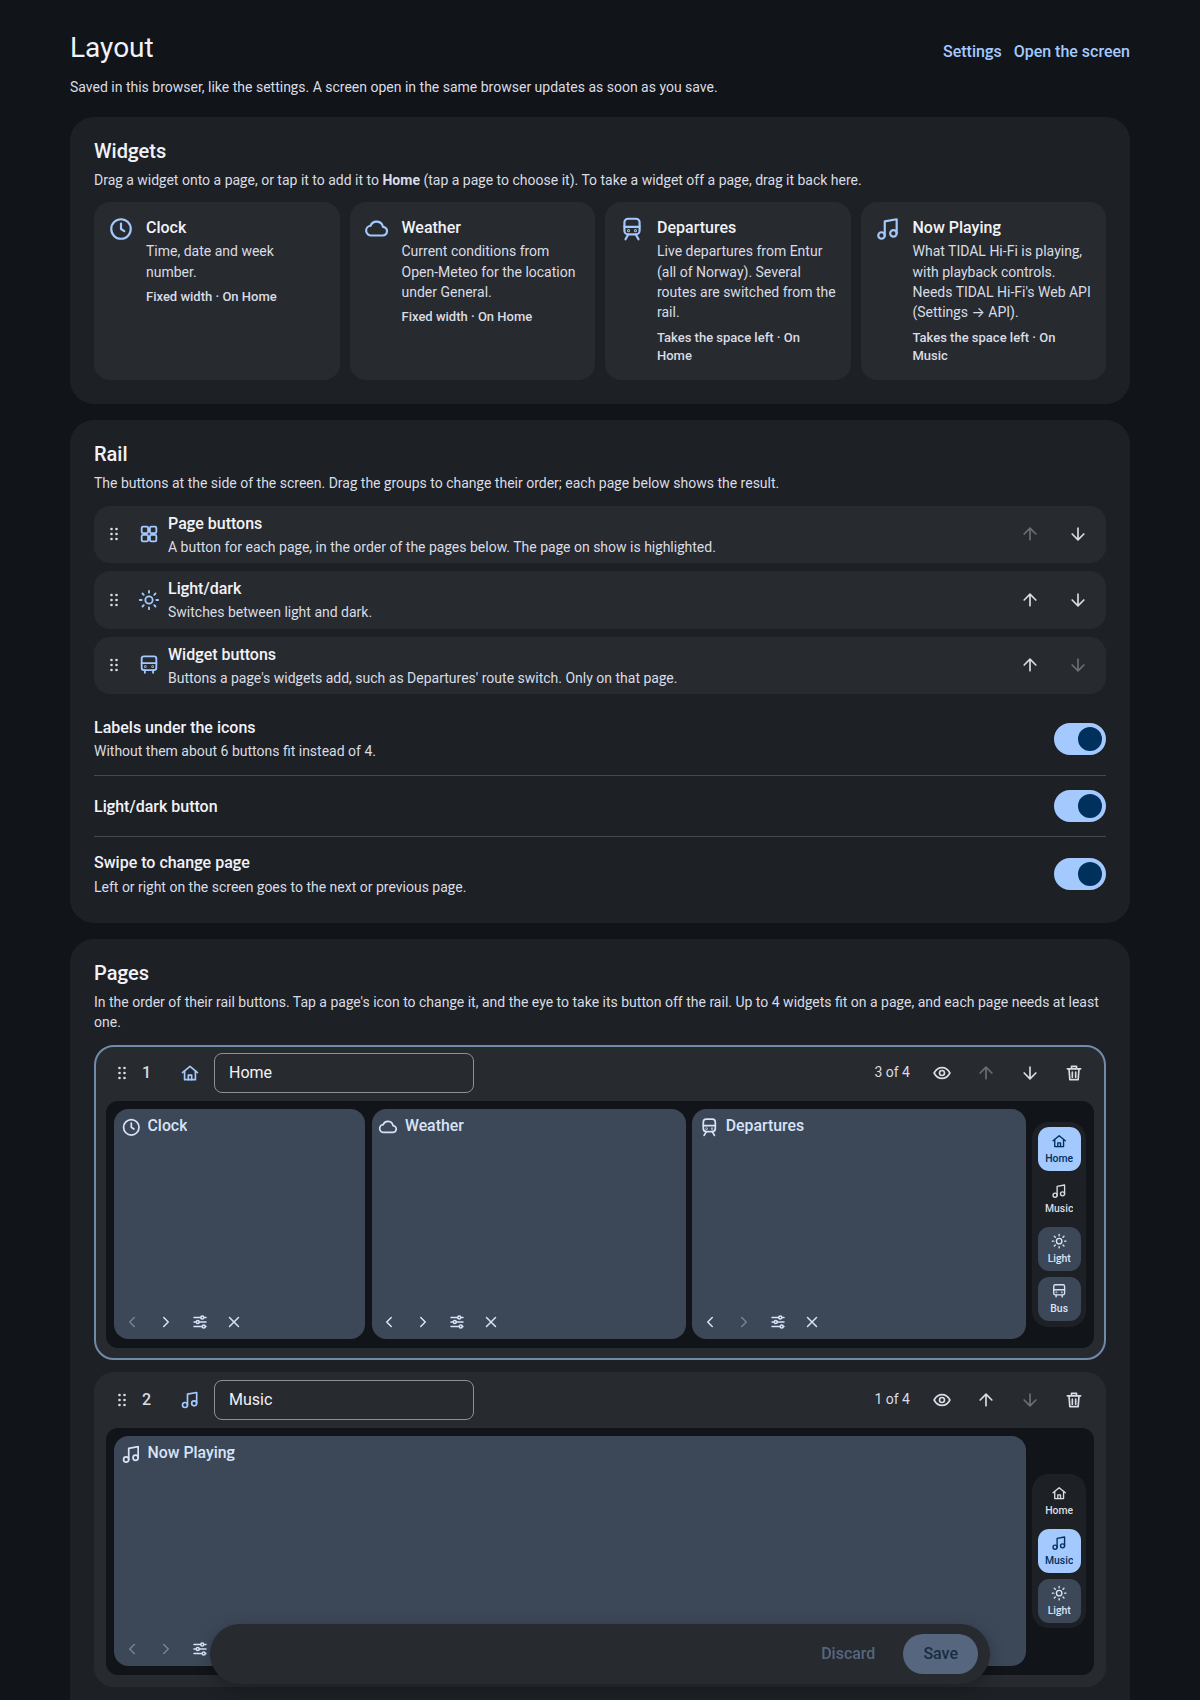
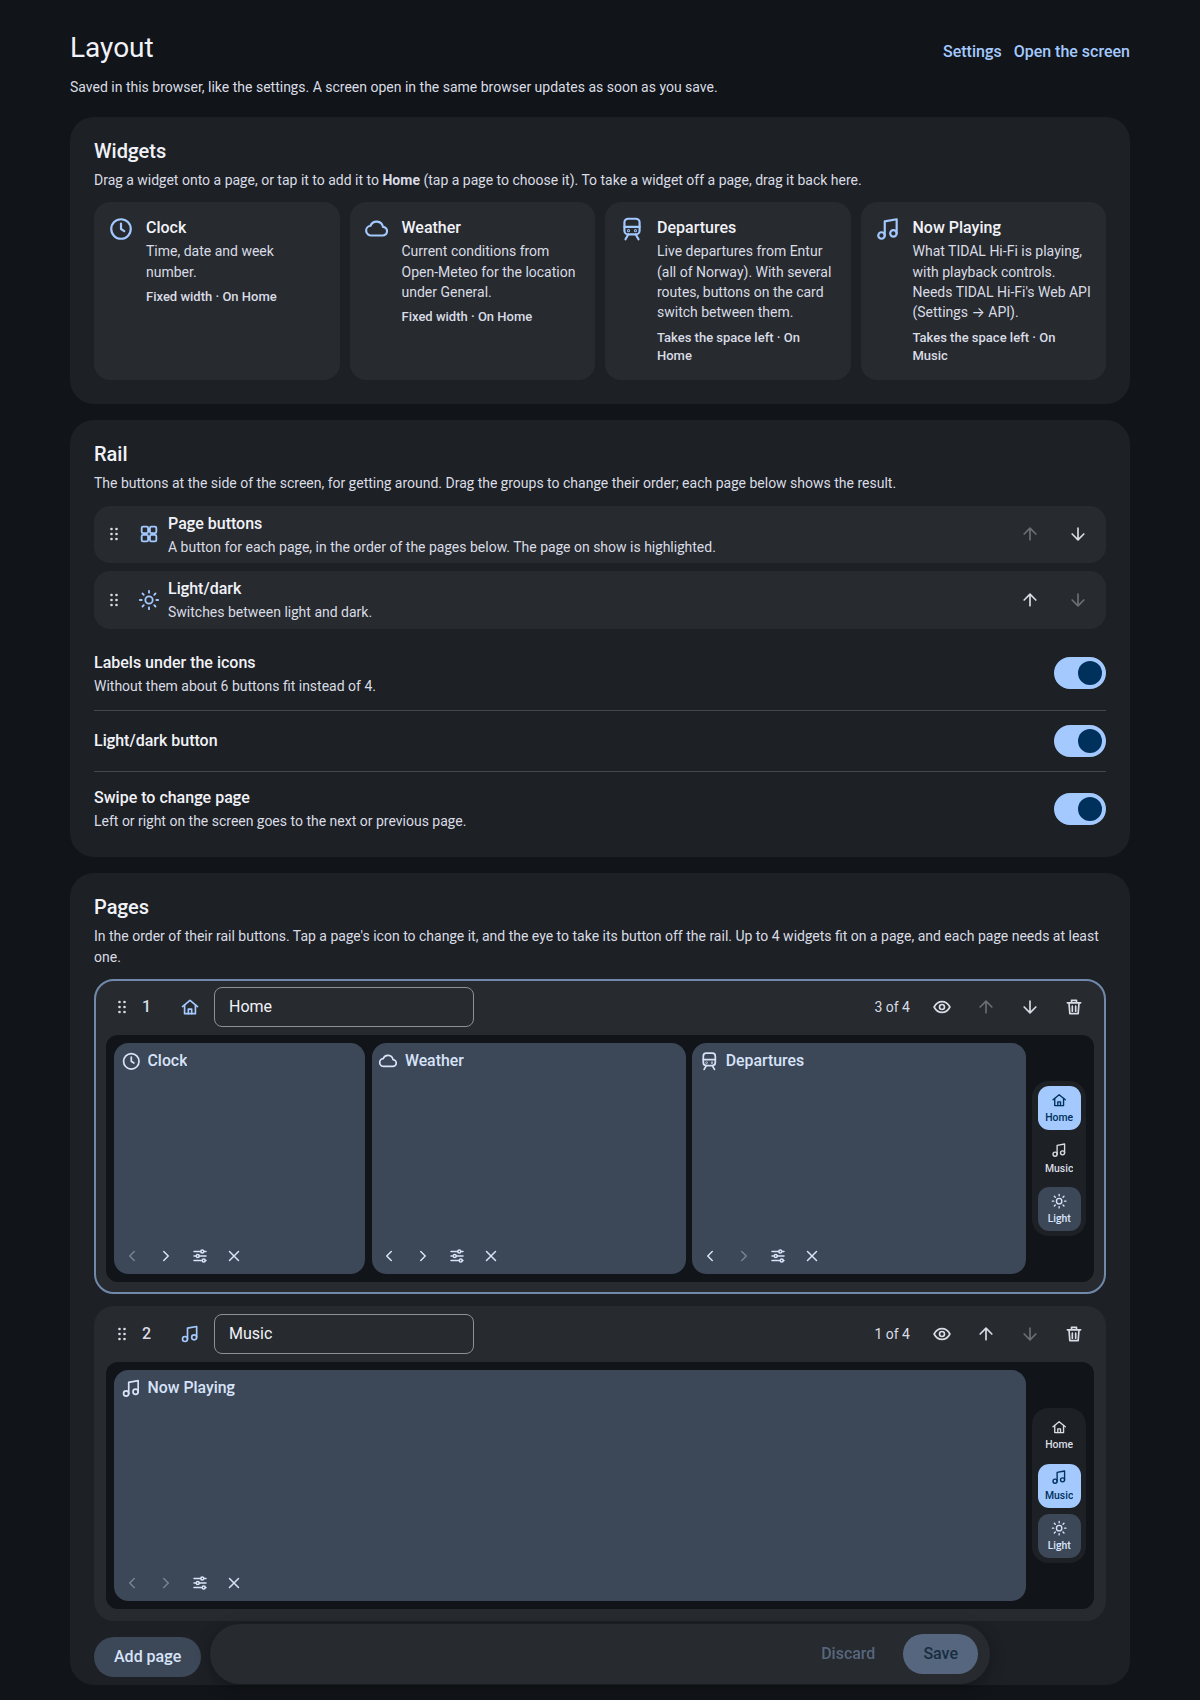
Put the route buttons on the Departures card, keep the rail for navigation
Departures' route switch was a button on the rail, next to the page
buttons, which mixed a widget's control into navigation. With several
routes the card now has a button for each at the top right, the one on
show filled; a tap switches to it and it's remembered as before.

The rail no longer takes buttons from widgets: the "widget buttons"
group, railActions() and refreshRail() are gone, and settings saved with
that group in the rail's order are upgraded on load. The README says a
widget's controls belong on its card.

diff --git a/web/widgets/transit/transit.js b/web/widgets/transit/transit.js
@@ -1,7 +1,7 @@
 // Live departures from Entur's journey planner (Ruter and the rest of Norway).
 // A route's `fromId` is a whole stop place or one platform (quay); departures
 // are kept only if the vehicle calls at `dest` after leaving.
-import { defineSymbols, make, refs } from "../../core/dom.js";
+import { lineIcon, make, onTap, refs } from "../../core/dom.js";
 import { ICONS } from "../../core/icons.js";
 import { fetchJSON } from "../../core/net.js";
 import { store } from "../../core/store.js";
@@ -22,11 +22,6 @@ const CALLS = `estimatedCalls(numberOfDepartures: 20, timeRange: 21600, whiteLis
     }
   }`;
 const queryFor = (kind) => `query ($id: String!, $modes: [TransportMode]) { place: ${kind}(id: $id) { ${CALLS} } }`;
-
-const SYMBOLS = ["train", "bus"].map((name) => `
-  <symbol id="i-${name}" viewBox="0 0 24 24">
-    <g fill="none" stroke="currentColor" stroke-width="2" stroke-linecap="round" stroke-linejoin="round">${ICONS[name]}</g>
-  </symbol>`).join("");
 
 function parseDepartures(calls, route) {
   return calls.flatMap((c) => {
@@ -55,8 +50,7 @@ function parseDepartures(calls, route) {
 
 const minutesUntil = (t) => Math.floor((t - Date.now()) / 60000);
 
-export function mount(card, { settings, fmt, refreshRail }) {
-  defineSymbols("transit", SYMBOLS);
+export function mount(card, { settings, fmt }) {
   card.classList.add("transit");
   card.setAttribute("aria-label", "Next departures");
   card.innerHTML = `
@@ -175,31 +169,37 @@ export function mount(card, { settings, fmt, refreshRail }) {
     refresh();
   }
 
+  // Several routes: a button for each at the top of the card, the one on show filled
+  if (routes.length > 1) {
+    const group = make("div", { className: "routes", role: "group" });
+    group.setAttribute("aria-label", "Routes");
+    const buttons = routes.map((route, i) => {
+      const button = make("button", { type: "button", className: "route-btn" });
+      button.setAttribute("aria-label", `${route.label || route.name}: ${route.name}`);
+      button.append(lineIcon(ICONS[route.icon]), make("span", { textContent: route.label || route.name }));
+      onTap(button, () => {
+        if (i === routeIndex) return;
+        routeIndex = i;
+        store.set("transit-route", String(routeIndex));
+        showChosen();
+        loadRoute();
+      });
+      return button;
+    });
+    const showChosen = () => buttons.forEach((b, i) => {
+      b.classList.toggle("on", i === routeIndex);
+      b.setAttribute("aria-pressed", String(i === routeIndex));
+    });
+    showChosen();
+    group.append(...buttons);
+    card.append(group);
+  }
+
   loadRoute();
   // Countdowns tick between fetches
   const ticker = setInterval(render, 5 * 1000);
 
   return {
-    // One rail button that steps to the next route, when there's more than one
-    railActions() {
-      if (routes.length < 2) return [];
-      const next = routes[(routeIndex + 1) % routes.length];
-      const icon = document.createElementNS("http://www.w3.org/2000/svg", "svg");
-      icon.setAttribute("class", "rail-icon");
-      icon.setAttribute("aria-hidden", "true");
-      icon.innerHTML = `<use href="#i-${next.icon}"/>`;
-      return [{
-        icon,
-        label: next.label,
-        ariaLabel: `Show ${next.label} departures`,
-        onTap: () => {
-          routeIndex = (routeIndex + 1) % routes.length;
-          store.set("transit-route", String(routeIndex));
-          loadRoute();
-          refreshRail();
-        },
-      }];
-    },
     destroy() {
       alive = false;
       clearTimeout(timer);

diff --git a/web/layout.js b/web/layout.js
@@ -25,7 +25,6 @@ const discardBtn = $("discard");
 let saved = null; // the stored layout: { pages, rail }
 let pages = null; // what the editor shows: [{ name, icon, inRail, widgets: [id, …] }]
 let rail = null; // and the rail: { order, labels, theme, swipe }
-let widgetSettings = null; // for the buttons widgets add to the rail
 let selected = 0; // the page a tapped library widget goes to
 let dirty = false;
 let showProblems = false; // after a Save that was refused
@@ -391,23 +390,16 @@ function previewRail(p) {
       el.append(railButton({ className: "page-btn", current: item.current, icon: lineIcon(pageIcon(page), "rail-icon"), label: pageName(item.page) }));
     } else if (item.kind === "theme") {
       el.append(railButton({ className: "theme-btn", icon: themeIcons(), label: document.documentElement.dataset.theme === "light" ? "Dark" : "Light" }));
-    } else {
-      for (const id of pages[p].widgets) {
-        for (const b of widgetById[id].railButtons?.(widgetSettings[id]) ?? []) {
-          el.append(railButton({ icon: lineIcon(b.icon, "rail-icon"), label: b.label }));
-        }
-      }
     }
   }
   for (const button of el.children) button.tabIndex = -1;
   return el;
 }
 
-const GROUP_ICONS = { pages: "grid", theme: "sun", widgets: "bus" };
+const GROUP_ICONS = { pages: "grid", theme: "sun" };
 const GROUP_HELP = {
   pages: "A button for each page, in the order of the pages below. The page on show is highlighted.",
   theme: "Switches between light and dark.",
-  widgets: "Buttons a page's widgets add, such as Departures' route switch. Only on that page.",
 };
 
 function renderRailSection() {
@@ -526,15 +518,9 @@ addEventListener("beforeunload", (ev) => {
 $("note").textContent = previewNumber
   ? `Preview of pull request #${previewNumber}: this layout is separate from the main screen's.`
   : "Saved in this browser, like the settings. A screen open in the same browser updates as soon as you save.";
-const initial = loadSettings().settings;
-widgetSettings = initial.widgets;
-adopt(initial.layout);
+adopt(loadSettings().settings.layout);
 setStatus("");
 watchSettings((next) => {
-  if (JSON.stringify(next.widgets) !== JSON.stringify(widgetSettings)) {
-    widgetSettings = next.widgets; // e.g. another route, so another rail button
-    renderPages();
-  }
   if (JSON.stringify(next.layout) === JSON.stringify(saved)) return;
   if (dirty) {
     saved = structuredClone(next.layout);

diff --git a/web/widgets/transit/transit.css b/web/widgets/transit/transit.css
@@ -6,9 +6,60 @@
   --chip-bg: color-mix(in srgb, var(--on) 12%, var(--md-primary-container));
   grid-template-columns: calc(var(--u) * 64) minmax(0, 1fr);
   column-gap: calc(var(--u) * 5);
+  position: relative;
   background: var(--md-primary-container);
   color: var(--on);
 }
+
+/*
+ * The route buttons: a segmented button in the space above the title, which
+ * the card's centred rows leave free. Each is 44 px tall with a larger tap
+ * area; the route on show is filled.
+ */
+.transit .routes {
+  position: absolute;
+  top: calc(var(--u) * 3);
+  /* The buttons' edge lines up with the card's padding, as the list below does */
+  right: calc(var(--u) * 4.9);
+  max-width: calc(100% - var(--u) * 9.8);
+  display: flex;
+  gap: calc(var(--u) * 0.6);
+  padding: calc(var(--u) * 0.6);
+  border-radius: 999px;
+  background: var(--chip-bg);
+}
+
+.transit .route-btn {
+  position: relative;
+  min-width: 0;
+  height: calc(var(--u) * 10);
+  padding: 0 calc(var(--u) * 3.4) 0 calc(var(--u) * 2.8);
+  border: 0;
+  border-radius: 999px;
+  background: transparent;
+  color: var(--on);
+  font: inherit;
+  font-size: calc(var(--u) * 5);
+  font-weight: 500;
+  display: flex;
+  align-items: center;
+  gap: calc(var(--u) * 1.4);
+  cursor: pointer;
+  -webkit-tap-highlight-color: transparent;
+  transition: background-color 0.2s, color 0.2s;
+}
+
+.transit .route-btn::after {
+  content: "";
+  position: absolute;
+  inset: calc(var(--u) * -1.6) calc(var(--u) * -0.3);
+}
+
+.transit .route-btn svg { flex: none; width: calc(var(--u) * 5.8); height: calc(var(--u) * 5.8); }
+.transit .route-btn span { min-width: 0; overflow: hidden; text-overflow: ellipsis; white-space: nowrap; }
+.transit .route-btn.on { background: var(--on); color: var(--md-primary-container); }
+.transit .route-btn:active:not(.on) { background: color-mix(in srgb, var(--on) 12%, transparent); }
+.transit .route-btn:focus-visible { outline: 2px solid var(--on); outline-offset: 2px; }
 
 .transit .line-badge {
   flex: none;

diff --git a/web/core/settings-schema.js b/web/core/settings-schema.js
@@ -41,7 +41,6 @@ export const general = {
 export const RAIL_GROUPS = [
   { value: "pages", label: "Page buttons" },
   { value: "theme", label: "Light/dark" },
-  { value: "widgets", label: "Widget buttons" },
 ];
 
 export const layout = {
@@ -87,7 +86,7 @@ export const layout = {
       label: "Rail",
       fields: {
         order: {
-          type: "list", label: "Order, top to bottom", min: 3, max: 3, unique: true,
+          type: "list", label: "Order, top to bottom", min: 2, max: 2, unique: true,
           item: { type: "select", label: "Group", default: "pages", options: RAIL_GROUPS },
           default: RAIL_GROUPS.map((g) => g.value),
         },
@@ -117,9 +116,17 @@ export const settingsSchema = {
 // stored settings once loaded, and compare equal as JSON
 export const defaultSettings = () => validateSettings({ version: SETTINGS_VERSION, ...defaultsOf(settingsSchema) }).settings;
 
+/** Brings settings saved by an earlier version up to date, before they're validated. */
+function upgrade(input) {
+  // The rail's "widget buttons" group went when Departures got its route buttons on the card
+  const order = input?.layout?.rail?.order;
+  if (!Array.isArray(order) || !order.includes("widgets")) return input;
+  return { ...input, layout: { ...input.layout, rail: { ...input.layout.rail, order: order.filter((g) => g !== "widgets") } } };
+}
+
 /** Returns { settings, errors }; settings is always complete and usable. */
 export function validateSettings(input) {
   const errors = [];
-  const settings = validate(settingsSchema, input, [], errors);
+  const settings = validate(settingsSchema, upgrade(input), [], errors);
   return { settings: { version: SETTINGS_VERSION, ...settings }, errors };
 }

diff --git a/web/core/rail.js b/web/core/rail.js
@@ -1,7 +1,7 @@
 // What the rail holds on a page, in order, from the layout's rail settings: a
-// button per page (the one on show highlighted), light/dark, and the buttons
-// the page's widgets add. The screen makes these into working buttons; the
-// layout editor draws the same buttons as a preview.
+// button per page (the one on show highlighted) and light/dark. Navigation
+// only: a widget's own controls are on its card. The screen makes these into
+// working buttons; the layout editor draws the same buttons as a preview.
 import { lineIcon, make } from "./dom.js";
 import { ICONS } from "./icons.js";
 import { widgetById } from "../widgets/registry.js";
@@ -14,9 +14,8 @@ export function pageIcon(page) {
 
 /**
  * The rail on page `index`, top to bottom:
- *   { kind: "page", page, current } | { kind: "theme" } | { kind: "widgets" }
- * "widgets" stands for whatever buttons the page's widgets add, which only
- * the caller knows. With a single page there are no page buttons.
+ *   { kind: "page", page, current } | { kind: "theme" }
+ * With a single page there are no page buttons.
  */
 export function railItems(layout, index) {
   const items = [];
@@ -27,8 +26,6 @@ export function railItems(layout, index) {
       });
     } else if (group === "theme" && layout.rail.theme) {
       items.push({ kind: "theme" });
-    } else if (group === "widgets") {
-      items.push({ kind: "widgets" });
     }
   }
   return items;

diff --git a/web/widgets/transit/schema.js b/web/widgets/transit/schema.js
@@ -12,7 +12,7 @@ const MODES = [
 const route = {
   type: "group",
   fields: {
-    label: { type: "text", label: "Button label", help: "Shown on the rail button that switches to this route.", default: "", maxLength: 12 },
+    label: { type: "text", label: "Button label", help: "Shown on the card's button for this route, when there are several.", default: "", maxLength: 12 },
     name: { type: "text", label: "Title", help: "Shown at the top of the card.", default: "", maxLength: 40 },
     icon: {
       type: "select", label: "Icon", default: "bus",
@@ -44,7 +44,7 @@ const route = {
 export default {
   id: "transit",
   name: "Departures",
-  description: "Live departures from Entur (all of Norway). Several routes are switched from the rail.",
+  description: "Live departures from Entur (all of Norway). With several routes, buttons on the card switch between them.",
   width: "fill",
   icon: ICONS.train,
   settings: {
@@ -73,6 +73,4 @@ export default {
       ],
     },
   },
-  // The rail button it adds, for the layout editor's preview: the next route's, when there are several
-  railButtons: (settings) => (settings.routes.length < 2 ? [] : [{ icon: ICONS[settings.routes[1].icon], label: settings.routes[1].label }]),
 };

diff --git a/web/screen.js b/web/screen.js
@@ -60,7 +60,6 @@ async function build(next) {
         general: next.general,
         fmt,
         params,
-        refreshRail: () => renderRail(),
         emit: (type, detail) => onWidgetEvent(type, detail),
         isVisible: () => index === pageIndex,
       };
@@ -116,11 +115,6 @@ function renderRail() {
       }));
     } else if (item.kind === "theme") {
       buttons.push(themeButton());
-    } else {
-      for (const m of mounted) {
-        if (m.page !== pageIndex) continue;
-        for (const action of m.instance.railActions?.() ?? []) buttons.push(railButton(action));
-      }
     }
   }
   $("rail").replaceChildren(...buttons);

diff --git a/web/layout.html b/web/layout.html
@@ -34,7 +34,7 @@
   </section>
   <section class="section" aria-labelledby="rail-title">
     <h2 id="rail-title">Rail</h2>
-    <p class="description">The buttons at the side of the screen. Drag the groups to change their order; each page below shows the result.</p>
+    <p class="description">The buttons at the side of the screen, for getting around. Drag the groups to change their order; each page below shows the result.</p>
     <div class="rail-order" id="rail-order"></div>
     <div class="rail-options" id="rail-options"></div>
   </section>

diff --git a/README.md b/README.md
@@ -30,9 +30,9 @@ Widgets so far:
 | Now Playing | What [TIDAL Hi-Fi](https://github.com/Mastermindzh/tidal-hifi) is playing, with album art and playback controls |
 
 Widgets are arranged on pages: by default *Home* (clock, weather, departures)
-and *Music* (Now Playing). The rail on the right switches pages, light and
-dark, and departure routes. When music starts the screen switches to the music
-page and goes back after it has been paused for a while.
+and *Music* (Now Playing). The rail on the right switches pages and light and
+dark; swiping left or right changes page too. When music starts the screen
+switches to the music page and goes back after it has been paused for a while.
 
 `first-app.html` is the original single-file version of the Home page. It
 still works on its own, straight from disk.
@@ -72,10 +72,10 @@ press and hold a widget to start dragging it.
 
 ### The rail
 
-The rail at the side of the screen has three groups of buttons, in an order
-you choose: a button for each page (the page on show is highlighted), the
-light/dark button, and buttons the page's widgets add (Departures' route
-switch, on its page only).
+The rail at the side of the screen is for getting around: a button for each
+page (the page on show is highlighted) and the light/dark button, in the order
+you choose. Controls that belong to a widget are on its card instead, such as
+Departures' route buttons.
 
 - Each page has an icon, from a set or *Automatic* (its first widget's), and
   can be left off the rail.
@@ -170,10 +170,9 @@ scripts/serve.js     local static server for development
    or `"fill"`. `settings` uses the field types in `web/core/fields.js`:
    toggle, text, number, select, group and list.
 2. Create `web/widgets/<id>/<id>.js`. It exports `mount(card, ctx)`, which
-   fills in the card and returns `{ destroy() }`. It can also return
-   `railActions()` to add rail buttons. `ctx` provides `settings` (yours, already
-   validated), `general`, `fmt` (date and time formatters), `refreshRail()` and
-   `emit()`.
+   fills in the card and returns `{ destroy() }`. Its controls go on the card;
+   the rail is for navigation only. `ctx` provides `settings` (yours, already
+   validated), `general`, `fmt` (date and time formatters) and `emit()`.
 3. Create `web/widgets/<id>/<id>.css`, with selectors scoped to `.<id>`.
 4. Add the schema to `web/widgets/registry.js`.
 
